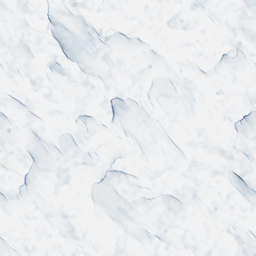
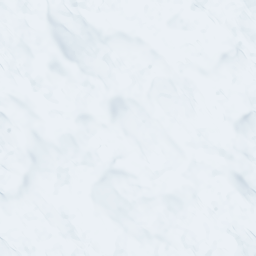
修复地形法线解算的bug

diff --git a/OpenRA.Game/Map/Map.cs b/OpenRA.Game/Map/Map.cs
@@ -1401,15 +1401,15 @@ namespace OpenRA
 				}
 
 				if (isShore)
-					TerrainRenderBlock.PaintAt(this, brush, CenterOfCell(uv), brush.DefaultSize, layer, 255);
+					TerrainRenderBlock.PaintAt(this, brush, CenterOfCell(uv), brush.DefaultSize * random.Next(10, 15) / random.Next(20, 50), 1, 255);
 
 				if (layer == 0)
 				{
-					TerrainRenderBlock.PaintAt(this, brush, CenterOfCell(uv), brush.DefaultSize * random.Next(40, 50) / random.Next(25, 30), layer, random.Next(1, 255));
+					TerrainRenderBlock.PaintAt(this, brush, CenterOfCell(uv), brush.DefaultSize * random.Next(40, 50) / random.Next(25, 30), 1, random.Next(1, 255));
 					if (isShore)
-						TerrainRenderBlock.PaintAt(this, waterBrush, CenterOfCell(uv), waterBrush.DefaultSize * random.Next(10, 15) / random.Next(30, 45), layer, random.Next(1, 75));
+						TerrainRenderBlock.PaintAt(this, waterBrush, CenterOfCell(uv), waterBrush.DefaultSize * random.Next(25, 35) / random.Next(10, 20), 0, random.Next(1, 75));
 					else
-						TerrainRenderBlock.PaintAt(this, waterBrush, CenterOfCell(uv), waterBrush.DefaultSize, layer, 255);
+						TerrainRenderBlock.PaintAt(this, waterBrush, CenterOfCell(uv), waterBrush.DefaultSize, 0, 255);
 				}
 				else
 					TerrainRenderBlock.PaintAt(this, brush, CenterOfCell(uv), brush.DefaultSize, layer, 255);
@@ -1432,7 +1432,7 @@ namespace OpenRA
 				else if (id >= 108 && id <= 149 && typename != "Water")
 				{
 					// TerrainRenderBlock.PaintAt(this, waterBrush, CenterOfCell(uv), waterBrush.DefaultSize, 0, -200);
-					TerrainRenderBlock.PaintAt(this, brush, CenterOfCell(uv), brush.DefaultSize * random.Next(10, 15) / random.Next(30, 45), 0, -random.Next(64, 175));
+					// TerrainRenderBlock.PaintAt(this, brush, CenterOfCell(uv), brush.DefaultSize * random.Next(10, 15) / random.Next(30, 45), 0, -random.Next(64, 175));
 				}
 			}
 

diff --git a/OpenRA.Game/Map/TerrainBlock.cs b/OpenRA.Game/Map/TerrainBlock.cs
@@ -349,7 +349,7 @@ namespace OpenRA
 
 				MaskFramebuffer.Unbind();
 
-				Console.WriteLine(TopLeft + " paint update " + paintSpots.Count);
+				// Console.WriteLine(TopLeft + " paint update " + paintSpots.Count);
 				needUpdateTexture = true;
 				paintSpots.Clear();
 			}
@@ -372,8 +372,7 @@ namespace OpenRA
 			if (!needUpdateTexture)
 				return;
 
-			Console.WriteLine("Updating block texture: " + TopLeft);
-
+			// Console.WriteLine("Updating block texture: " + TopLeft);
 			needUpdateTexture = false;
 
 			BlendFramebuffer.Bind();

diff --git a/OpenRA.Game/Graphics/WorldRenderer.cs b/OpenRA.Game/Graphics/WorldRenderer.cs
@@ -85,8 +85,11 @@ namespace OpenRA.Graphics
 			World.Map.InitTerrainBlockMask();
 			World.Map.UpdateTerrainBlockTexture(Viewport, true);
 			World.Map.DrawMaskWithTSMapInfo(this);
+			Console.WriteLine("Updating Mask");
 			World.Map.UpdateTerrainBlockMask(Viewport, true);
+			Console.WriteLine("Updating Texture");
 			World.Map.UpdateTerrainBlockTexture(Viewport, true);
+			Console.WriteLine("Completed");
 		}
 
 		public void RefreshTextures()
